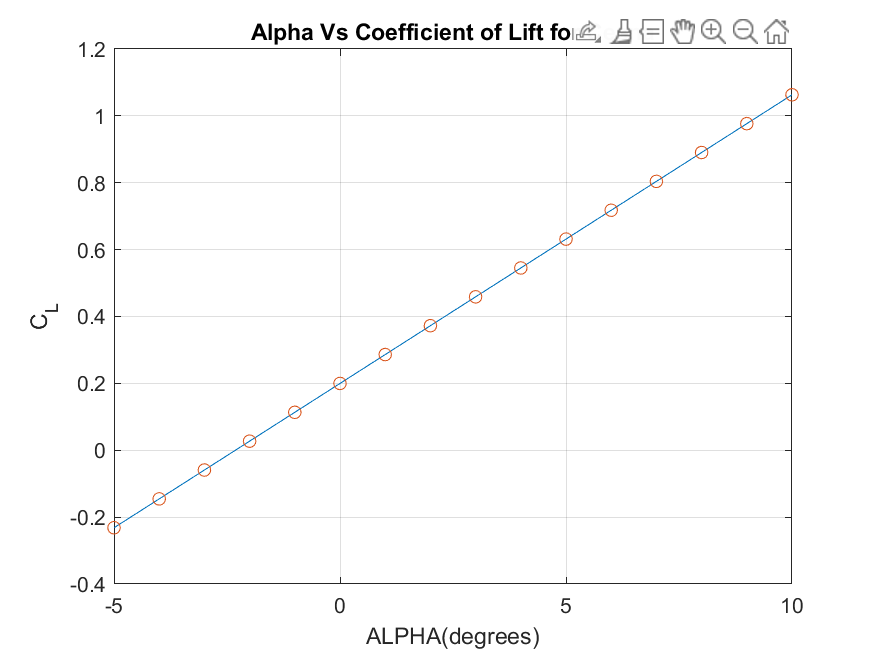
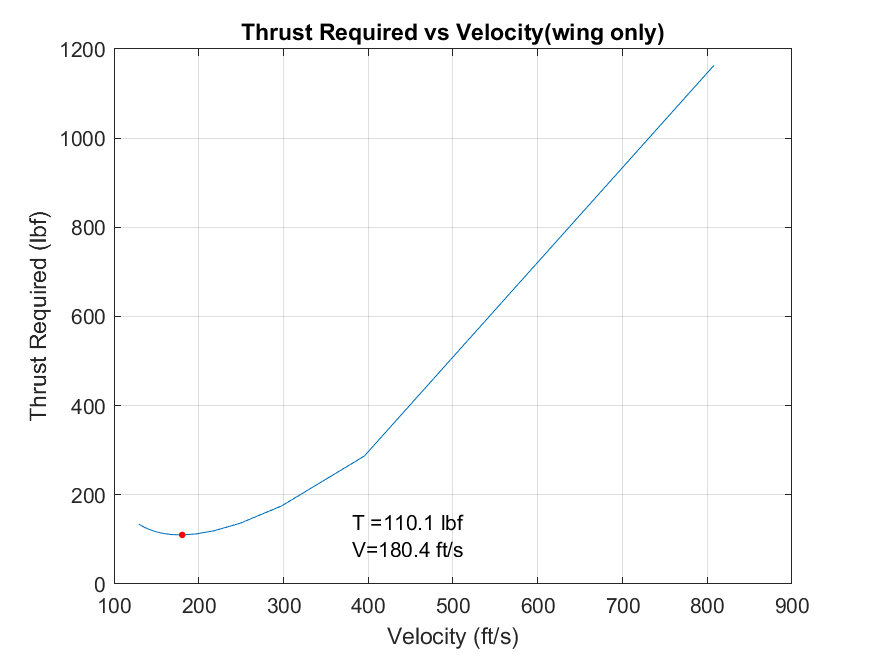
Final Graphs

diff --git a/Part3Task1.m b/Part3Task1.m
@@ -30,7 +30,7 @@ scatter(ALPHA,c_l);
 xlabel("ALPHA(degrees)");
 ylabel("C_L");
 title("Alpha Vs Coefficient of Lift for Cesna");
-%saveas(gcf,"C_lvsALpha", 'png');
+saveas(gcf,"C_lvsALpha", 'png');
 
 
 cd = .01; %All values were within 5% of this value. Integral code does not work with matrix
@@ -44,18 +44,29 @@ scatter(ALPHA,c_D);
 xlabel("ALPHA(degrees)");
 ylabel("C_D");
 title("Alpha Vs Coefficient of Drag for Cesna");
+saveas(gcf,"C_lvsALpha", 'png');
 
+c_D = c_di + c_d0;
 W = 2500;
-roALT = 17.56;
-roSL = 27.45;
-Thrust = W ./ ( c_l ./ c_D );
+roALT = .001756;
+roSL = .002377;
+S = 160.434;
+valid_idx = c_l > 0;  % Have to take all positive values of c_L or VSLUF wont be calculated
+c_l_valid = c_l(valid_idx);
+c_D_valid = c_D(valid_idx);
+ALPHA_valid = ALPHA(valid_idx);
 
-ThrustTrue = Thrust .* (roALT / roSL);
+VSLUF = sqrt(2 * W ./ (roALT * S .* c_l_valid));
+ThrustReq = 0.5 * roALT * VSLUF.^2 .* S .* c_D_valid;
+
+[T_min, idx_min] = min(ThrustReq);
+V_min = VSLUF(idx_min);
+
 figure()
-plot(ALPHA, ThrustTrue); hold on; grid on;
-yline(W);
-xlabel("ALPHA(degrees)");
-ylabel("True Thrust [lbf]");
-title("Alpha Vs Thrust for Cesna");
-xlim([-5 10])
-
+plot(VSLUF, ThrustReq); hold on; grid on;
+scatter(V_min, T_min, 10, 'r', 'filled');
+xlabel('Velocity (ft/s)');
+ylabel('Thrust Required (lbf)');
+title('Thrust Required vs Velocity(wing only)');
+text(V_min+200, T_min, sprintf('T =%.1f lbf\nV=%.1f ft/s',T_min,V_min));
+saveas(gcf,"C_lvsALpha", 'png');

diff --git a/intergral_CD_0.m b/intergral_CD_0.m
@@ -4,11 +4,11 @@ b2 = b/2;
 S = b * 0.5 * (c_root + c_tip);
 
 
-c1 = @(y) c_root - ((c_root - c_tip)/0.5*b)*y;
+c1 = @(y) c_root - ((c_root - c_tip)/ (b/2))*abs(y);
 integrand1 = @(y) cd .* c1(y);
 
 
-c2 = @(y) c_root + ((c_root - c_tip)/0.5*b)*y;
+c2 = @(y) c_root + ((c_root - c_tip)/ (b/2))*abs(y);
 integrand2 = @(y) cd .* c2(y);
 
 CD_01 = integral(integrand1, b1, 0);
